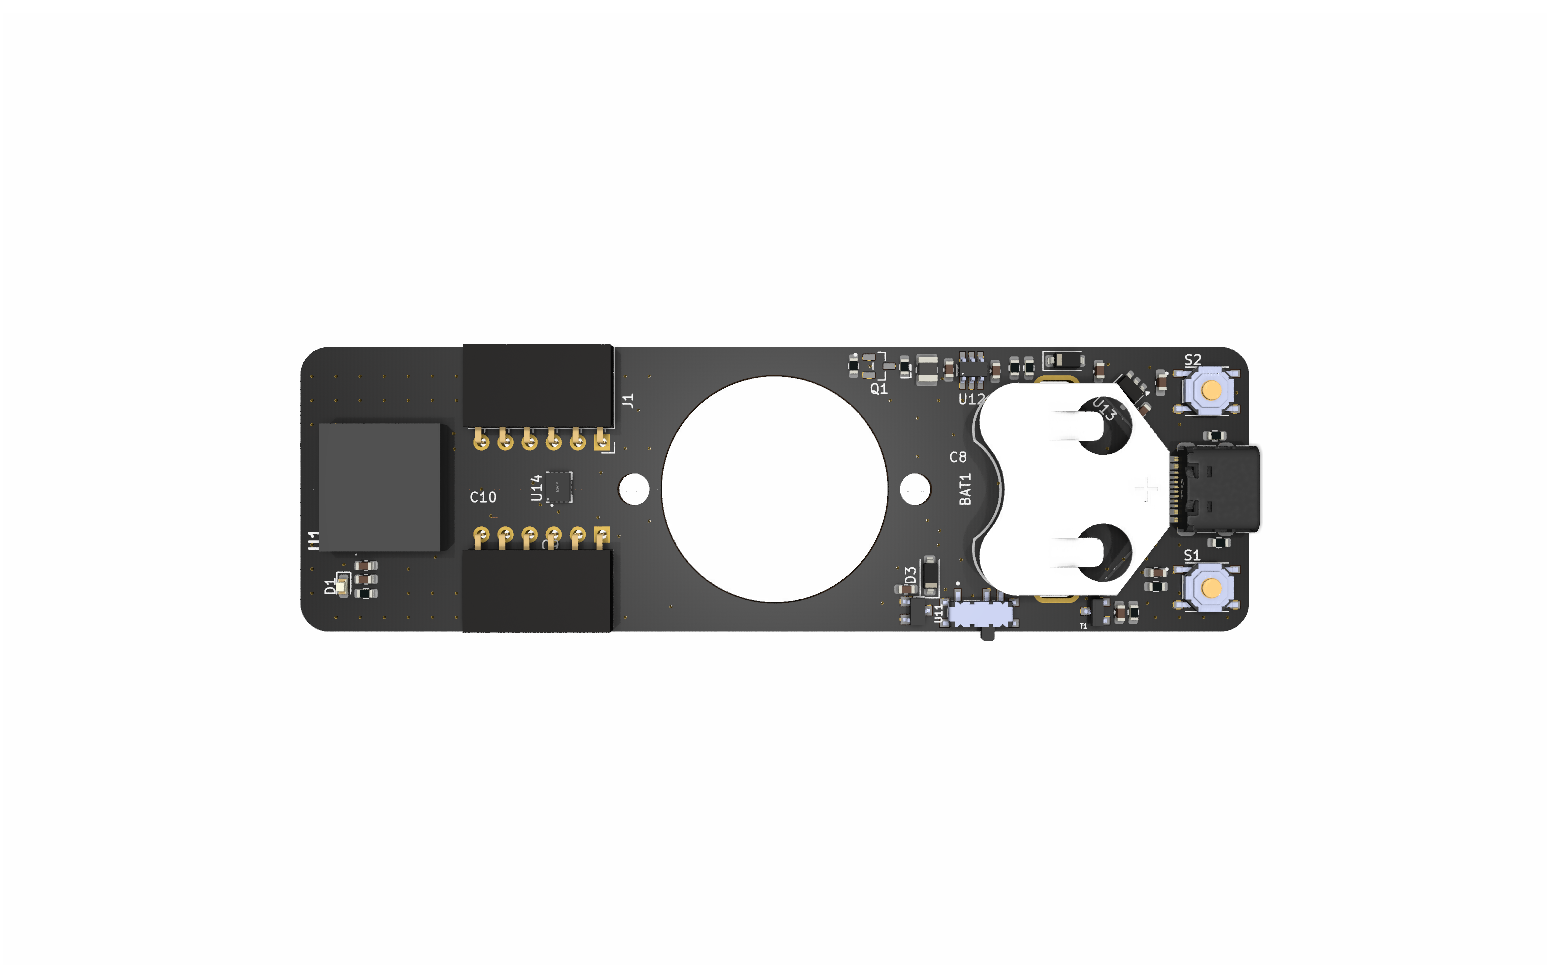
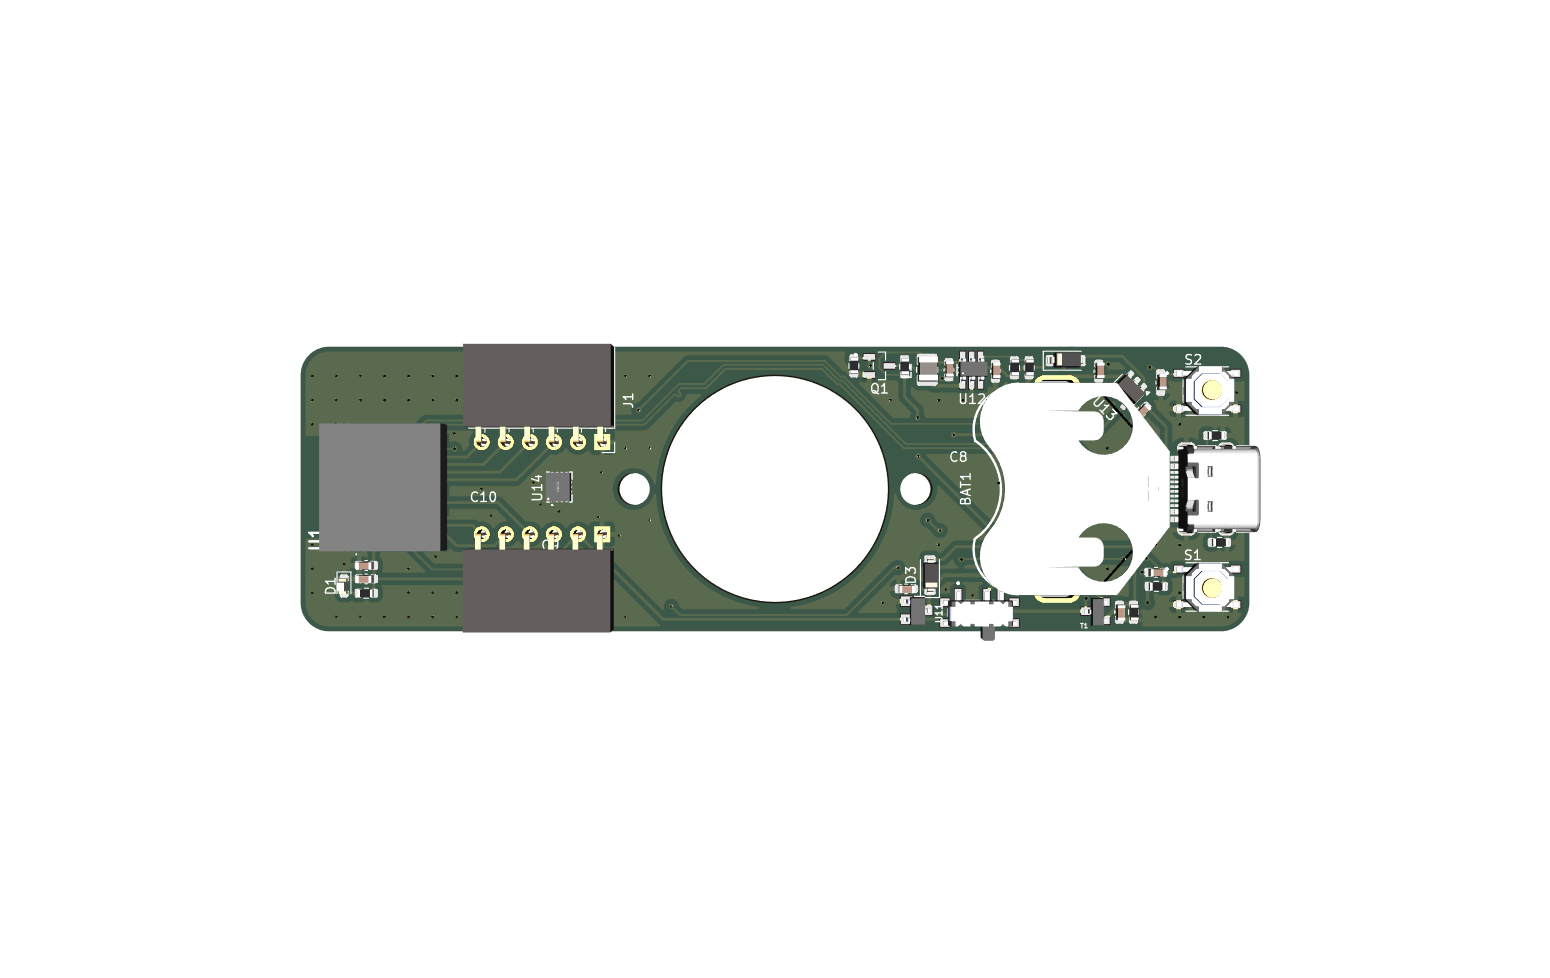
tries to set it as a plateform

Changed region(s): [[0.1858, 0.3374, 0.8361, 0.6748]]

diff --git a/platform.py b/platform.py
@@ -1,0 +1,80 @@
+# Copyright 2014-present PlatformIO <contact@platformio.org>
+#
+# Licensed under the Apache License, Version 2.0 (the "License");
+# you may not use this file except in compliance with the License.
+# You may obtain a copy of the License at
+#
+#    http://www.apache.org/licenses/LICENSE-2.0
+#
+# Unless required by applicable law or agreed to in writing, software
+# distributed under the License is distributed on an "AS IS" BASIS,
+# WITHOUT WARRANTIES OR CONDITIONS OF ANY KIND, either express or implied.
+# See the License for the specific language governing permissions and
+# limitations under the License.
+
+import os
+from platformio.public import PlatformBase
+
+class ESpinPlatform(PlatformBase):
+    
+    def configure_default_packages(self, variables, targets):
+        # This platform is a wrapper around "espressif32"
+        # Since we cannot inherit directly in Python easily without the package installed,
+        # we rely on PlatformIO's package manager to handle the dependencies defined in platform.json
+        # and we must ensure the board config is correct.
+        
+        # If the user selects a board from this platform, we need to ensure 
+        # the framework and toolchain are available.
+        # The 'espressif32' packages are defined in platform.json
+        return super().configure_default_packages(variables, targets)
+
+    def get_boards(self, id_=None):
+        result = super().get_boards(id_)
+        if not result:
+            return result
+        
+        # Patch the board definition to point to the correct variant directory
+        # This is critical because the variants are inside THIS platform package,
+        # not in the framework package.
+        platform_dir = self.get_dir()
+        
+        # If we are looking for a specific board or listing all
+        if id_:
+            self._patch_board_variant(result, platform_dir)
+        else:
+            for key in result:
+                self._patch_board_variant(result[key], platform_dir)
+                
+        return result
+
+    def _patch_board_variant(self, board_config, platform_dir):
+        # We only patch our specific board
+        if board_config.id == "e_spin":
+            # If the variant is defined, we ensure the builder knows where to find it.
+            # Standard Espressif32 builder looks in framework's variants/ folder.
+            # We want it to use OUR variants/ folder.
+            
+            # We can't easily change the logic of the builder script (main.py from espressif32),
+            # but we can try to inject the path via 'variants_dir' option if supported,
+            # or we rely on 'framework-arduinoespressif32' being patched?
+            
+            # The cleanest way for a custom platform to provide variants 
+            # is to set 'build.variants_dir' in the board config dynamically
+            # if it wasn't set in the JSON.
+            
+            variants_dir = os.path.join(platform_dir, "variants")
+            
+            # Update the manifest dictionary - this affects the 'board' object used by PIO
+            # Note: access internal dictionary of the BoardConfig object if needed, 
+            # but here board_config is likely a BoardConfig object or dict.
+            # BoardConfig object has 'manifest' attribute.
+            
+            if hasattr(board_config, "manifest"):
+                if "build" not in board_config.manifest:
+                    board_config.manifest["build"] = {}
+                board_config.manifest["build"]["variants_dir"] = variants_dir
+            elif isinstance(board_config, dict):
+                 if "build" not in board_config:
+                    board_config["build"] = {}
+                 board_config["build"]["variants_dir"] = variants_dir
+

diff --git a/README.md b/README.md
@@ -1,6 +1,7 @@
 # E-SPIN Board Definitions
 
 This repository contains the board definition and variants for the **E-SPIN**, a custom ESP32-C3 based board.
+
 ![alt text](image.png)
 
 ## Board Overview
@@ -19,25 +20,43 @@ This repository contains the board definition and variants for the **E-SPIN**, a
 
 ## Installation
 
-### PlatformIO
+### Method 1: Use as a Custom Platform (Recommended)
 
-To use this board in PlatformIO, verify that your project structure includes the `boards/` and `variants/` folders as defined in this repository.
+This repository is configured as a custom PlatformIO platform. This is the easiest way to use the board without copying files.
 
-1. Copy the `boards/e_spin.json` file to your project's `boards/` directory (or the global PlatformIO boards directory).
-2. Copy the `variants/e_spin/` folder to your customized framework variants folder if necessary, or configure your `platformio.ini` to point to the correct variant.
+1.  Open your `platformio.ini`.
+2.  Set the `platform` to point to this repository.
+3.  Set `board = e_spin`.
 
-**Example `platformio.ini`:**
+```ini
+[env:e_spin]
+; Use this repository as the platform
+platform = https://github.com/urbskali/E-spin_board.git
+board = e_spin
+framework = arduino
+; Optional: Fix for some PIO versions to ensure variant is found
+board_build.variants_dir = logic_handled_by_platform_py
+```
+
+*Note: The platform script attempts to automatically point to the variants folder inside the package.*
+
+### Method 2: Manual Installation (Local)
+
+1. Copy `boards/e_spin.json` to your project's `boards/` directory.
+2. Copy the `variants/e_spin` folder to `variants/`.
+3. Update `platformio.ini`:
 
 ```ini
 [env:e_spin]
 platform = espressif32
 board = e_spin
 framework = arduino
-; If the board definition is local to the project
 board_build.variants_dir = variants
-board_build.mcu = esp32c3
-board_build.f_cpu = 160000000L
 ```
+
+### Why `platform_packages` didn't work
+
+Referencing this repository via `platform_packages` (e.g., `espin@git...`) causes an `UnknownBoard` error because PlatformIO resolves the board ID **before** downloading optional packages. By defining this repository as a **Platform** (Method 1), PlatformIO downloads it first to find the board definition, and then proceeds to install dependencies (like the Arduino framework) as defined in `platform.json`.
 
 ## Pin Definitions
 
